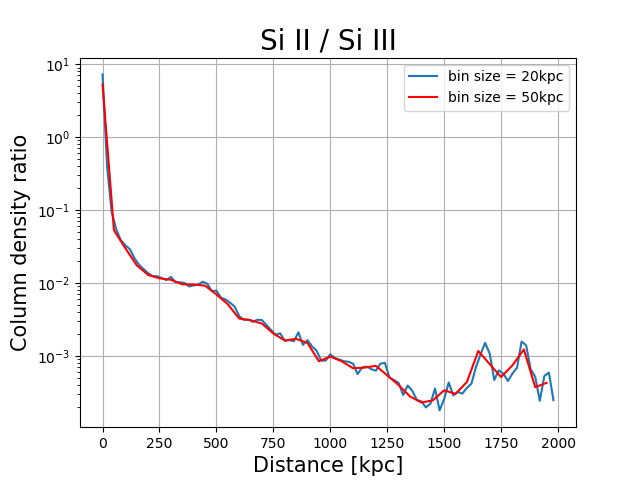
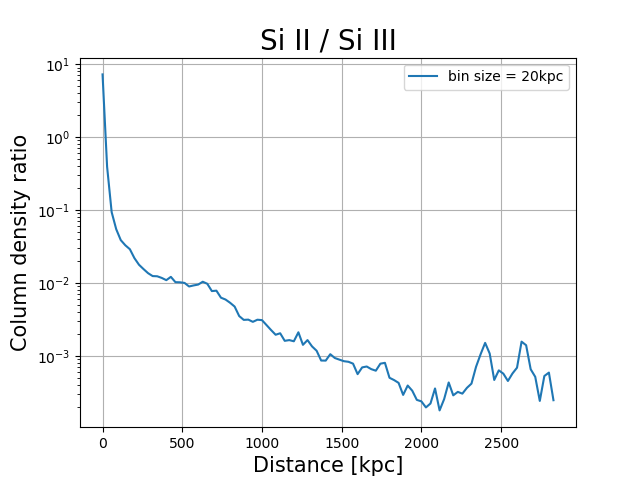
plot scales now in kpc instead of kpc/h

diff --git a/yt_trident/absorber_analysis.py b/yt_trident/absorber_analysis.py
@@ -4,6 +4,7 @@ import matplotlib.pyplot as plt
 plt.ion()
 import pandas as pd
 import glob
+from tools import HUBBLE_2Mpc_LG
 
 
 def get_distances(df, line):
@@ -315,7 +316,7 @@ if __name__=='__main__':
 
     plt.figure()
     r, ratio = cold_ratio_profile_2k('Si II 1260', 'Si III 1206', 20)
-    plt.semilogy(r[:-1], ratio, label = 'bin size = 20kpc')
+    plt.semilogy(r[:-1]/HUBBLE_2Mpc_LG, ratio, label = 'bin size = 20kpc')
     plt.xlabel('Distance [kpc]', fontsize = 15)
     plt.ylabel('Column density ratio', fontsize = 15)
     plt.title('Si II / Si III', fontsize = 20)
@@ -326,8 +327,8 @@ if __name__=='__main__':
     plt.figure()
     r, T = temperature_profile_2k(20)
     _, Tw = temperature_profile_2k(20, weighted=True)
-    plt.semilogy(r[:-1], T, label = 'bin size = 20kpc', color = 'red')
-    plt.semilogy(r[:-1], Tw, label = 'denisty weighted', color = 'crimson', ls = '--')
+    plt.semilogy(r[:-1]/HUBBLE_2Mpc_LG, T, label = 'bin size = 20kpc', color = 'red')
+    plt.semilogy(r[:-1]/HUBBLE_2Mpc_LG, Tw, label = 'denisty weighted', color = 'crimson', ls = '--')
     plt.xlabel('Distance [kpc]', fontsize = 15)
     plt.ylabel('Temperature [K]', fontsize = 15)
     plt.title('Temperature profile', fontsize = 20)
@@ -337,8 +338,8 @@ if __name__=='__main__':
     plt.figure()
     r, p = pressure_profile_2k(20)
     _, pw = pressure_profile_2k(20, weighted=True)
-    plt.semilogy(r[:-1], p, label = 'bin size = 20kpc', color = 'blue')
-    plt.semilogy(r[:-1], pw, label = 'density weighted', color = 'cyan')
+    plt.semilogy(r[:-1]/HUBBLE_2Mpc_LG, p, label = 'bin size = 20kpc', color = 'blue')
+    plt.semilogy(r[:-1]/HUBBLE_2Mpc_LG, pw, label = 'density weighted', color = 'cyan')
     plt.xlabel('Distance [kpc]', fontsize = 15)
     plt.ylabel('pressure [dyne/cm^2]', fontsize = 15)
     plt.title('Pressure profile', fontsize = 20)
@@ -348,8 +349,8 @@ if __name__=='__main__':
     plt.figure()
     r, rho = density_profile_2k(20)
     _, rhow = density_profile_2k(20, weighted=True)
-    plt.semilogy(r[:-1], rho, label = 'bin size = 20kpc', color = 'magenta')
-    plt.semilogy(r[:-1], rhow, label = 'density weighted', color = 'purple')
+    plt.semilogy(r[:-1]/HUBBLE_2Mpc_LG, rho, label = 'bin size = 20kpc', color = 'magenta')
+    plt.semilogy(r[:-1]/HUBBLE_2Mpc_LG, rhow, label = 'density weighted', color = 'purple')
     plt.xlabel('Distance [kpc]', fontsize = 15)
     plt.ylabel('density [g/cm^3]', fontsize = 15)
     plt.title('Mass density profile', fontsize = 20)
@@ -359,8 +360,8 @@ if __name__=='__main__':
     plt.figure()
     r, covf_C1 = covering_fraction_2k('C II 1335', 1e9, 20)
     r, covf_C2 = covering_fraction_2k('C II 1335', 1e12, 20)
-    plt.plot(r[:-1], covf_C1, label = 'bin size = 20kpc\n N > 1e9', color = 'olive')
-    plt.plot(r[:-1], covf_C2, label = 'bin size = 20kpc\n N > 1e12', color = 'green')
+    plt.plot(r[:-1]/HUBBLE_2Mpc_LG, covf_C1, label = 'bin size = 20kpc\n N > 1e9', color = 'olive')
+    plt.plot(r[:-1]/HUBBLE_2Mpc_LG, covf_C2, label = 'bin size = 20kpc\n N > 1e12', color = 'green')
     plt.xlabel('Distance [kpc]', fontsize = 15)
     plt.ylabel('$f$', fontsize = 15)
     plt.title('Covering fraction for C II 1036', fontsize = 20)
@@ -371,8 +372,8 @@ if __name__=='__main__':
     plt.figure()
     r, covf_S1 = covering_fraction_2k('Si III 1206', 1e9, 20)
     r, covf_S2 = covering_fraction_2k('Si III 1206', 1e12, 20)
-    plt.plot(r[:-1], covf_S1, label = 'bin size = 20kpc\n N > 1e9', color = 'pink')
-    plt.plot(r[:-1], covf_S2, label = 'bin size = 20kpc\n N > 1e12', color = 'violet')
+    plt.plot(r[:-1]/HUBBLE_2Mpc_LG, covf_S1, label = 'bin size = 20kpc\n N > 1e9', color = 'pink')
+    plt.plot(r[:-1]/HUBBLE_2Mpc_LG, covf_S2, label = 'bin size = 20kpc\n N > 1e12', color = 'violet')
     plt.xlabel('Distance [kpc]', fontsize = 15)
     plt.ylabel('$f$', fontsize = 15)
     plt.title('Covering fraction for Si III 1206', fontsize = 20)
@@ -385,12 +386,30 @@ if __name__=='__main__':
     r, NS3w = column_density_profile_2k('Si III 1206', 50, weighted=True)
     r, NS2 = column_density_profile_2k('Si II 1260', 50)
     r, NS2w = column_density_profile_2k('Si II 1260', 50, weighted=True)
-    plt.semilogy(r[:-1], NS3, label = 'Si III 1206', color = 'purple')
-    plt.semilogy(r[:-1], NS3w, label = 'density weighted\n Si III 1206', color = 'violet', ls = '--')
-    plt.semilogy(r[:-1], NS2, label = 'Si II 1260', color = 'red')
-    plt.semilogy(r[:-1], NS2w, label = 'density weighted\n Si II 1260', color = 'coral', ls = '--')
+    plt.semilogy(r[:-1]/HUBBLE_2Mpc_LG, NS3, label = 'Si III 1206', color = 'purple')
+    plt.semilogy(r[:-1]/HUBBLE_2Mpc_LG, NS3w, label = 'density weighted\n Si III 1206', color = 'violet', ls = '--')
+    plt.semilogy(r[:-1]/HUBBLE_2Mpc_LG, NS2, label = 'Si II 1260', color = 'red')
+    plt.semilogy(r[:-1]/HUBBLE_2Mpc_LG, NS2w, label = 'density weighted\n Si II 1260', color = 'coral', ls = '--')
     plt.xlabel('Distance [kpc]', fontsize = 15)
     plt.ylabel('$N$ [cm$^{-2}$]', fontsize = 15)
     plt.title('Column density profiles', fontsize = 20)
+    plt.grid()
+    plt.legend()
+
+
+    plt.figure()
+    r, covf_S3 = covering_fraction_2k('Si III 1206', 1e9, 10)
+    r, covf_S2 = covering_fraction_2k('Si II 1260', 1e9, 10)
+    r, covf_S4 = covering_fraction_2k('Si IV 1403', 1e9, 10)
+    r, covf_C2 = covering_fraction_2k('C II 1335', 1e9, 10)
+    r, covf_C4 = covering_fraction_2k('C IV 1551', 1e9, 10)
+    plt.plot(r[:-1]/HUBBLE_2Mpc_LG, covf_S3, label = 'Si III 1260')
+    plt.plot(r[:-1]/HUBBLE_2Mpc_LG, covf_S2, label = 'Si II 1206')
+    plt.plot(r[:-1]/HUBBLE_2Mpc_LG, covf_S4, label = 'Si IV 1403')
+    plt.plot(r[:-1]/HUBBLE_2Mpc_LG, covf_C2, label = 'C II 1335')
+    plt.plot(r[:-1]/HUBBLE_2Mpc_LG, covf_C4, label = 'C IV 1551')
+    plt.xlabel('Distance [kpc]', fontsize = 15)
+    plt.ylabel('$f$', fontsize = 15)
+    plt.title('Covering fraction for $N > 10^{12}$ cm$^{-2}$, bin size = 10kpc', fontsize = 20)
     plt.grid()
     plt.legend()
